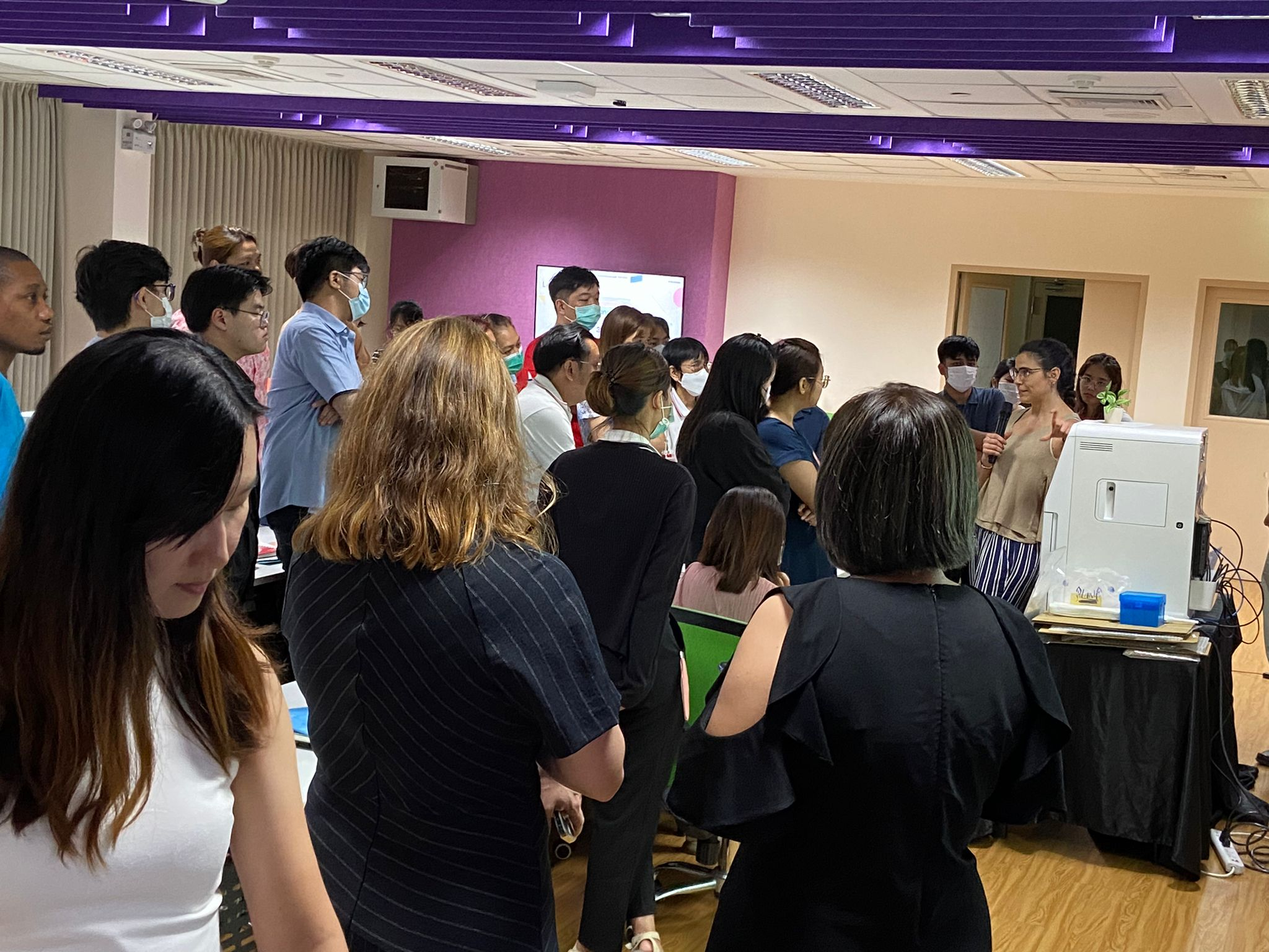
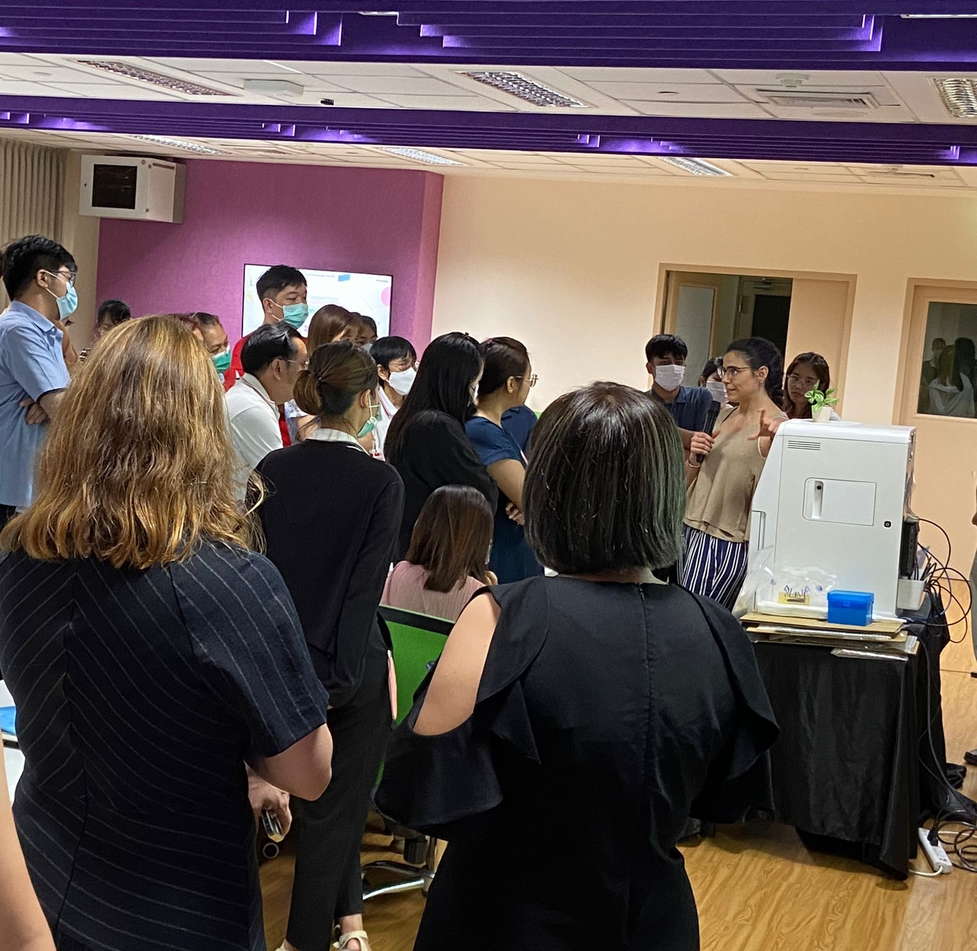
Happy with everything except the contact tab and pics too big

diff --git a/index.html b/index.html
@@ -29,7 +29,6 @@
         Co‑owner of a specialty coffee shop in Madrid and professional double bass player.
       </p>
       <div class="cta">
-        <a class="btn" href="#projects">Explore projects</a>
         <a class="btn" href="#contact">Get in touch</a>
       </div>
     </div>
@@ -60,7 +59,7 @@
 
   <section class="container" id="about" aria-labelledby="about-title">
     <h2 class="section-title" id="about-title">About me</h2>
-    <div class="grid">
+    <div class="grid grid-3">
       <div class="card">
         <p>
           I am a Product Manager who sees the world through possibilities and connections. I lead cross‑functional teams to deliver
@@ -86,7 +85,7 @@
   <section class="container" id="Drivers">
     <h2 class="section-title" id="drivers-title">My professional drivers</h2>
     <div class="container" id="biotech">
-      <div class="grid">
+      <div class="grid grid-3">
         <div class="card">
           <h3>Digital health & biotech</h3>
           <p>
@@ -133,35 +132,9 @@
       </div>
     </div>
 
-    <!-- Music -->
-    <div class="tab-content" id="music-tab">
-      <div class="grid">
-        <div class="card">
-          <h3>Double bass</h3>
-          <p>
-            Professional training in double bass, with experience in ensemble and collaborative projects.
-          </p>
-        </div>
-        <div class="card">
-          <h3>Creative practice</h3>
-          <p>
-            Music as a discipline of listening, structure, and improvisation.
-          </p>
-        </div>
-        <div class="card">
-          <h3>Cross-disciplinary thinking</h3>
-          <p>
-            Applying musical principles—timing, harmony, adaptability—to product and business.
-          </p>
-        </div>
-      </div>
-    </div>
-  </section>
-
-
   <section class="container" id="projects" aria-labelledby="projects-title">
     <h2 class="section-title" id="projects-title"> Latest Professional Projects </h2>
-    <div class="grid">
+    <div class="grid grid-3">
       <article class="card">
         <h3>Image Integrity Checker</h3>
         <p class="muted">Software launch · Integrity and compliance in scientific imaging</p>
@@ -182,7 +155,7 @@
 
   <section class="container" id="coffee" aria-labelledby="coffee-title">
     <h2 class="section-title" id="coffee-title">Specialty coffee</h2>
-    <div class="grid">
+    <div class="grid grid-3">
       <div class="card">
         <h3>Our café in Madrid</h3>
         <p>Co‑owner of a specialty coffee shop focused on craft, hospitality, and community. From sourcing to service, we chase clarity in flavor and experience.</p>
@@ -200,7 +173,7 @@
 
   <section class="container" id="music" aria-labelledby="music-title">
     <h2 class="section-title" id="music-title">Music</h2>
-    <div class="grid">
+    <div class="grid grid-3">
       <div class="card">
         <h3>Double bass</h3>
         <p>Professional degree in double bass. I bring the discipline of classical training and the openness of ensemble work to product and teams.</p>
@@ -218,7 +191,7 @@
 
   <section class="container" id="contact" aria-labelledby="contact-title">
     <h2 class="section-title" id="contact-title">Contact</h2>
-    <div class="grid">
+    <div class="grid grid-3">
       <div class="card">
         <h3>Reach out</h3>
         <p>Email: <a id="email-link" href="#" aria-label="Send email">
@@ -229,12 +202,18 @@
       <div class="card">
         <h3>Social</h3>
         <div class="social">
-          <a href="https://www.linkedin.com/in/carmen-lozano-abellán/" target="_blank" rel="noopener"> my LinkedIn</a>
-          <a href="https://github.com/menchule" aria-label="GitHub" target="_blank" rel="noopener" >my GitHub</a>
-          <a href="https://www.instagram.com/carmenchulerenchu/" target="_blank" rel="noopener"> my Instagram</a>
+          <a class="btn social-btn" href="https://www.linkedin.com/in/carmen-lozano-abellán/" target="_blank" rel="noopener">
+            LinkedIn
+          </a>
+          <a class="btn social-btn" href="https://github.com/menchule" target="_blank" rel="noopener">
+            GitHub
+          </a>
+          <a class="btn social-btn" href="https://www.instagram.com/carmenchulerenchu/" target="_blank" rel="noopener">
+            Instagram
+          </a>
         </div>
       </div>
-      <div class="card">
+        <div class="card">
         <h3>Work together</h3>
         <p>Open to collaborations in product strategy, digital health, specialty coffee projects, and music.</p>
       </div>

diff --git a/styles.css b/styles.css
@@ -239,6 +239,25 @@ header {
 }
 
 /* =========================================================
+   SOCIAL CTA BUTTONS
+========================================================= */
+.social {
+    display: flex;
+    flex-direction: column;
+    gap: 0.75rem;
+    margin-top: 0.75rem;
+}
+
+.social-btn {
+    justify-content: center;
+    text-align: center;
+}
+
+.social-btn:hover {
+    background: linear-gradient(180deg, #1f2636, #151922);
+}
+
+/* =========================================================
    PHOTOS (MUSIC / TRAVEL)
 ========================================================= */
 .photos img,
@@ -257,6 +276,9 @@ header {
 /* =========================================================
    RESUME
 ========================================================= */
+.role + .role {
+    margin-top: 1.5rem;
+}
 .hero-photo img {
     width: 140px;
     height: 140px;

diff --git a/resume.html b/resume.html
@@ -30,6 +30,13 @@
       </p>
       <p>
         Madrid & Cadiz, Spain
+      <p>
+
+      <p>
+        LinkedIn:<a href="https://www.linkedin.com/in/carmen-lozano-abellán/" target="_blank" rel="noopener"
+        > linkedin.com/in/carmen-lozano-abellán </a>
+      </p>
+
       <p>Email: <a id="email-link" href="#" aria-label="Send email">
         <span id="email-text">[email protected]</span>
       </a></p>
@@ -137,6 +144,17 @@
 
   </section>
 
+  <!-- PHOTOS -->
+  <section class="container">
+    <h2 class="section-title">Moments & places</h2>
+
+    <div class="grid grid-3 photos">
+
+      <img src="photos/Carmen_gel.jpeg" alt="Checking quality">
+      <img src="photos/Carmen_SLAS.jpeg" alt="SLAS Congress San Diego">
+      <img src="photos/seminario_tailandia.jpg" alt="Staying close to customers">
+
+    </div>
 </main>
 
 <footer>

diff --git a/travel.html b/travel.html
@@ -58,16 +58,14 @@
     <h2 class="section-title">Moments & places</h2>
 
     <div class="grid grid-3 photos">
-      <!-- Replace src with your own images -->
+
       <img src="photos/1_Tokyo_temple.JPEG" alt="Travel moment 1">
       <img src="photos/2_Bangkok_templo.JPEG" alt="Travel moment 2">
       <img src="photos/3_Cuba_hotel.JPEG" alt="Travel moment 3">
       <img src="photos/4_Singapur_fuente.JPEG" alt="Travel moment 4">
       <img src="photos/5_Uzbekistan.JPEG" alt="Travel moment 5">
       <img src="photos/6_Kiruna_perros.JPEG" alt="Travel moment 6">
-      <!-- Add two more if you want 8 -->
-      <!-- <img src="images/travel7.jpg" alt="Travel moment 7">
-      <img src="images/travel8.jpg" alt="Travel moment 8"> -->
+
     </div>
 
     <p class="muted" style="margin-top:1rem;">
